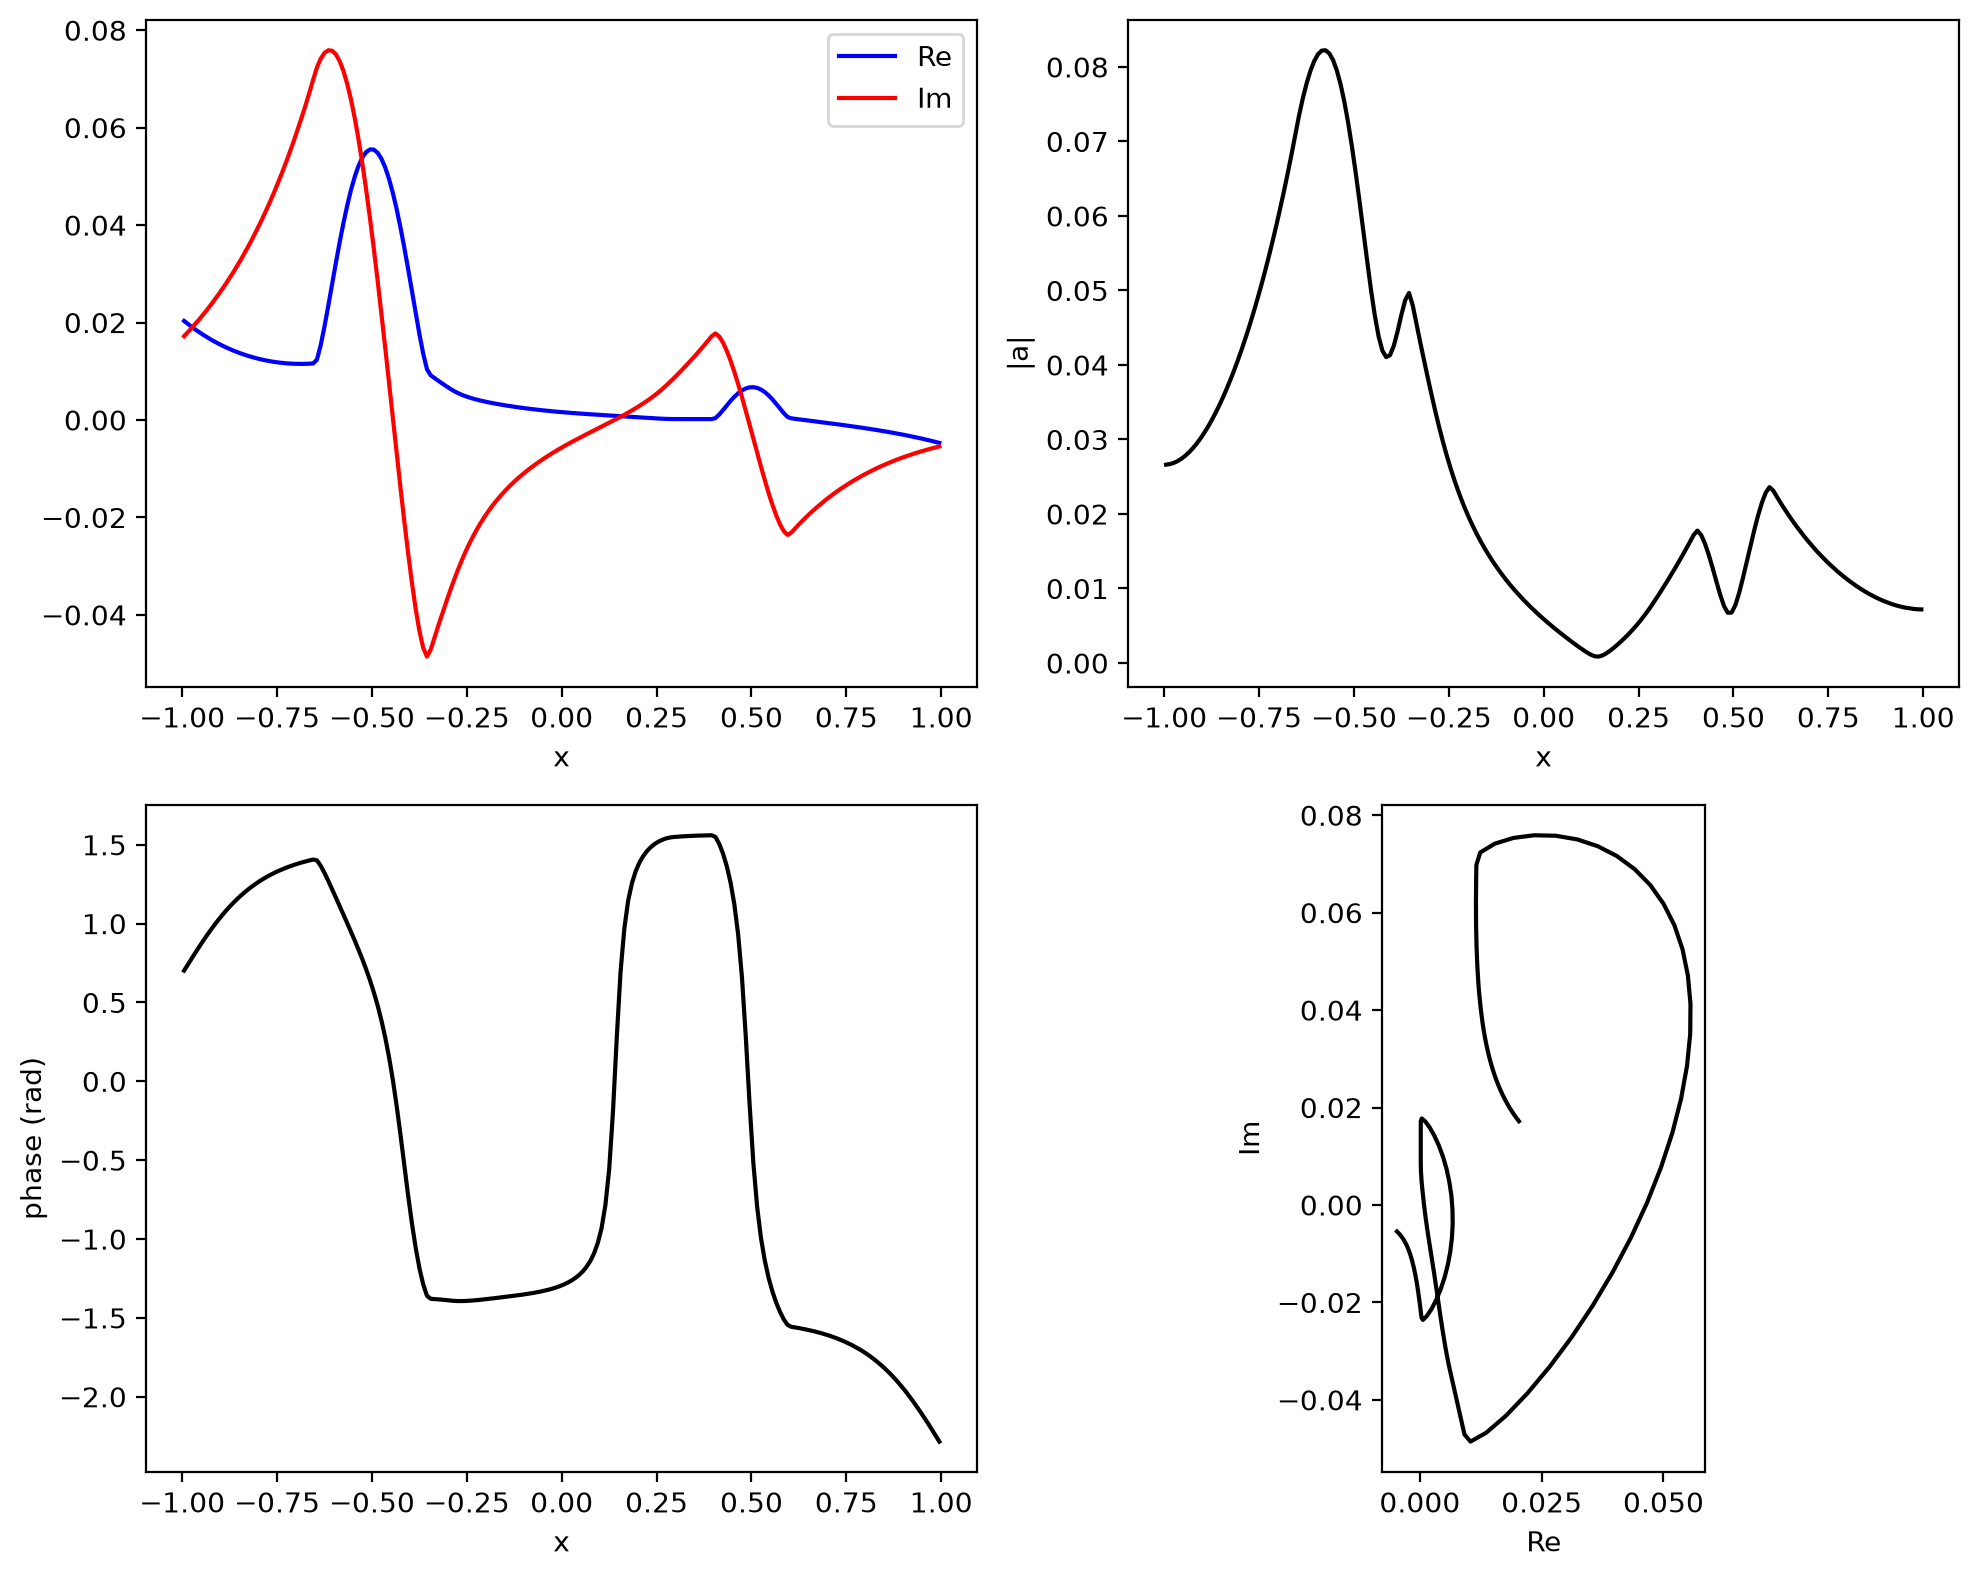
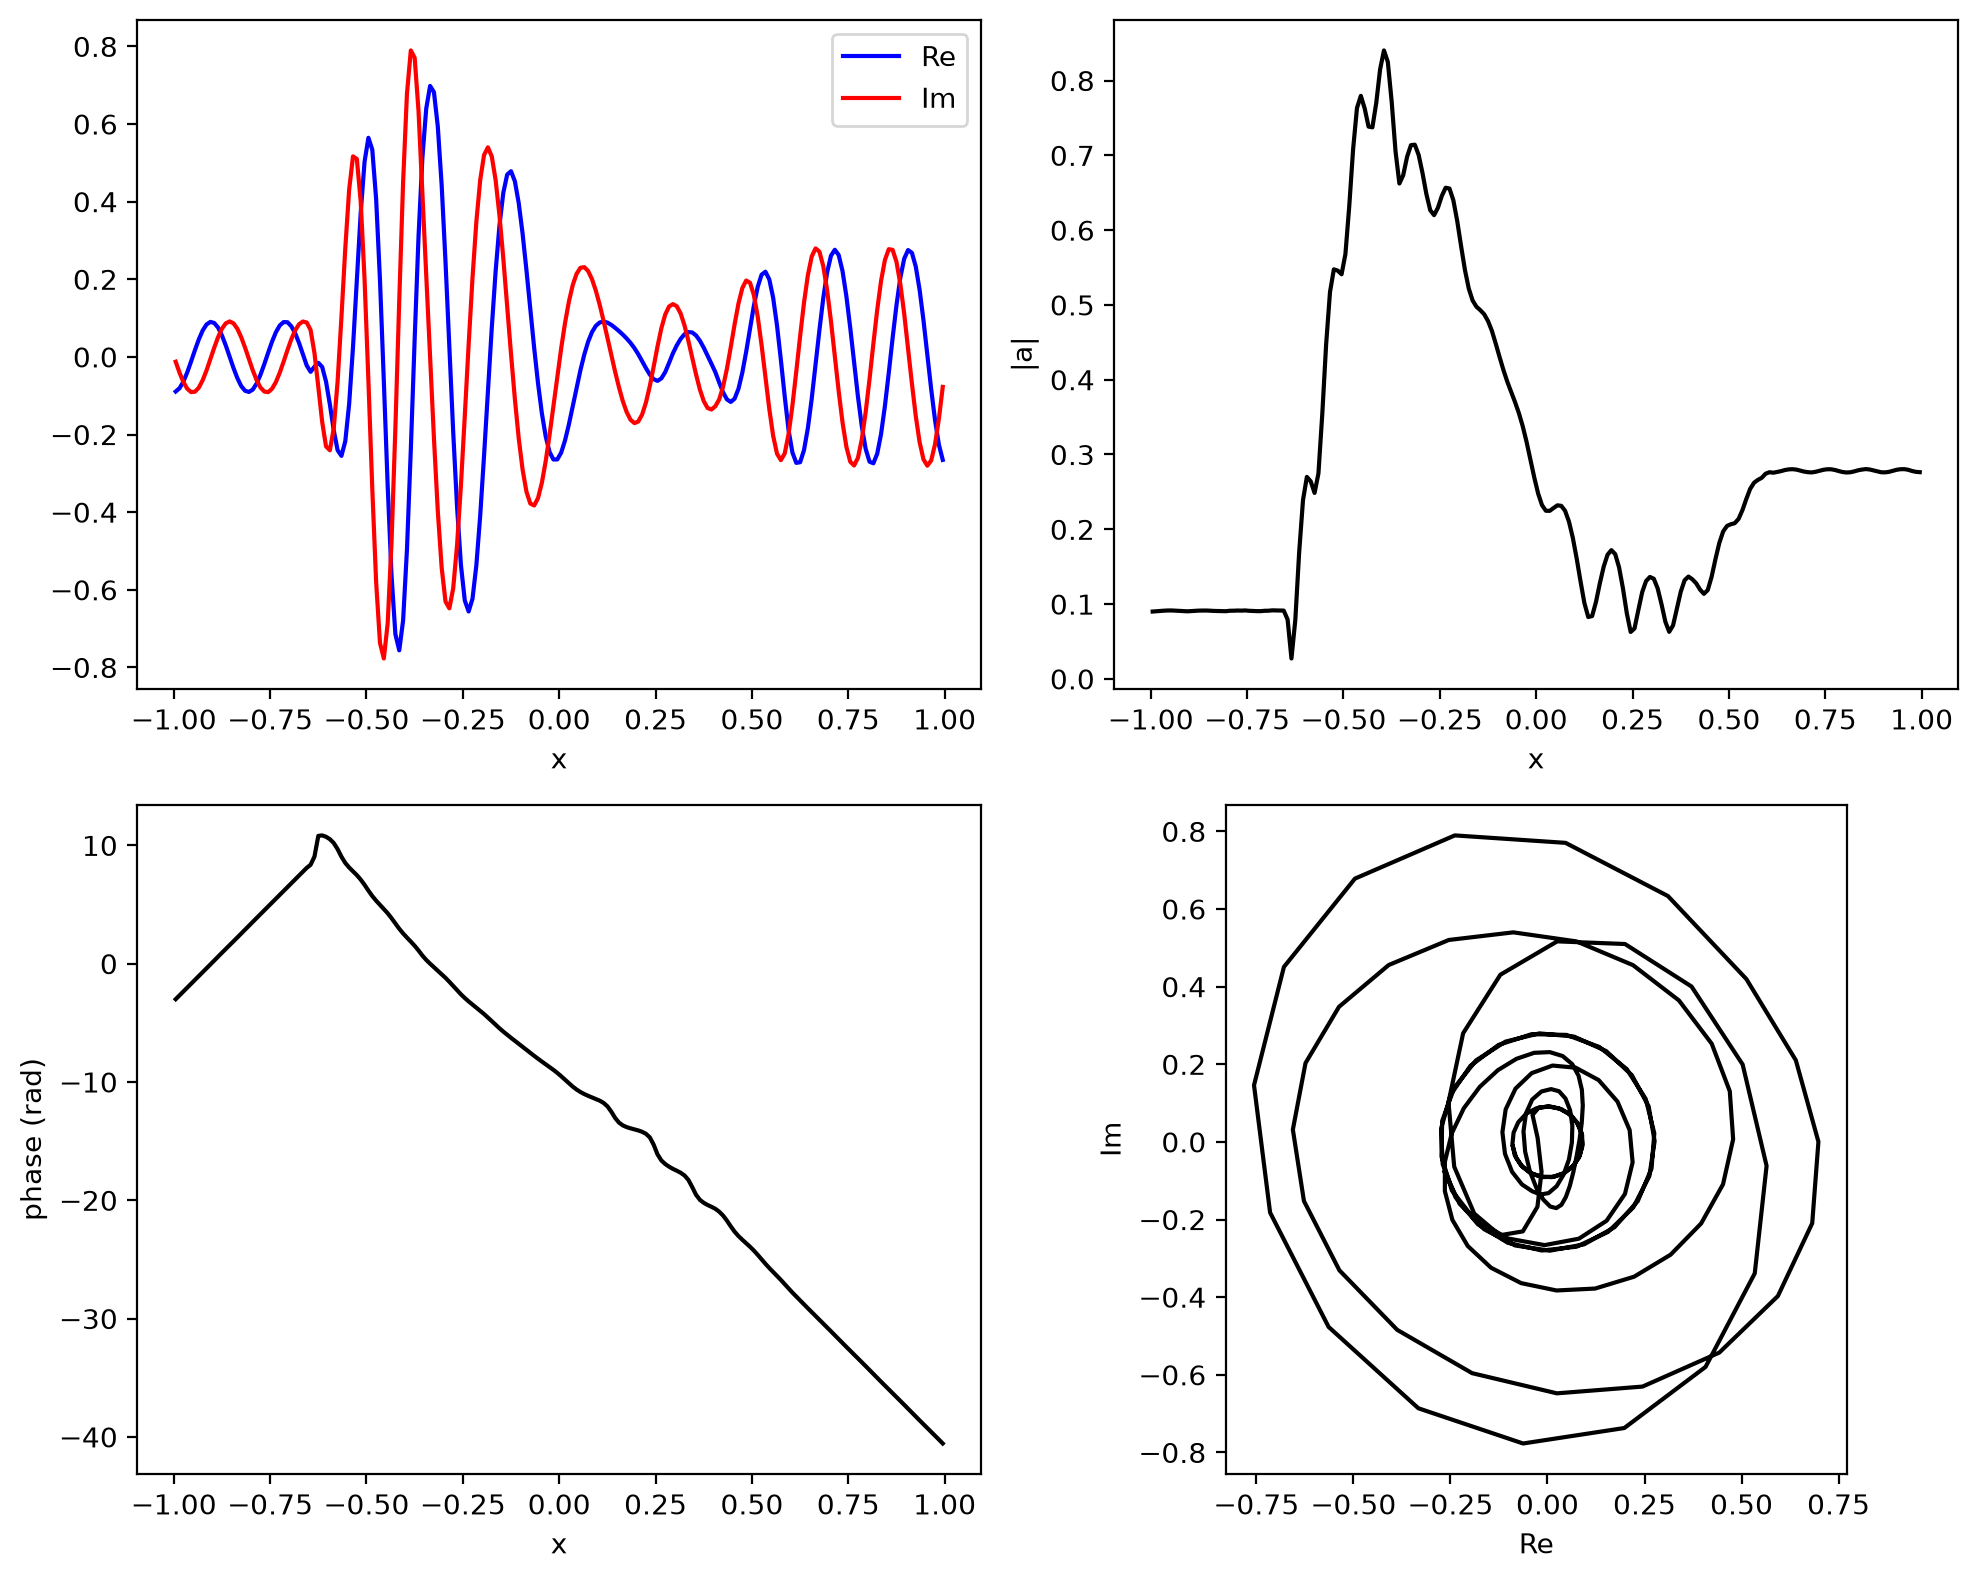
Updated post_processing.scriptfor power spectrum visualisation

diff --git a/src/post_processor.cc b/src/post_processor.cc
@@ -201,7 +201,6 @@ ModeCoefficients PostProcessor<dim>::transmission_reflection( const unsigned int
 
 
 
-
 /*-- Implementing main funcitons --*/ 
 
 template<int dim> 
@@ -254,27 +253,43 @@ ScatteringResults PostProcessor<dim>::scattering_results() const {
 }
 
 
+template<int dim> 
+std::vector<PowerSample> PostProcessor<dim>:: power_spectrum() const {
+	
+	const double k_0 = param.omega / param.c ; 
+	const double cut_off = numbers::PI / param.W ; 
+	const double ratio = k_0 / cut_off ; 
+	
+	AssertThrow(ratio > 1 , ExcMessage("The wave number is below the cut off"));
+
+	const unsigned int max_mode = static_cast<unsigned int>(std::ceil(ratio)) - 1; 	
+	
+	ModeCoefficients incoming_wave = PostProcessor<dim>::transmission_reflection(param.n); 
+	double incoming_power = incoming_wave.beta * std::norm(incoming_wave.A_left);
+	
+	std::vector<PowerSample> power_spec ; 
+	
+	
+	
+	for (unsigned int m = 1 ; m <= max_mode ; ++m) {
+		ModeCoefficients mode_decom = PostProcessor<dim>::transmission_reflection(m); 
+		double R_power = mode_decom.beta * std::norm(mode_decom.B_left) / incoming_power ; 
+		double T_power = mode_decom.beta * std::norm(mode_decom.A_right) / incoming_power ; 
+		double port_ref_in = ((mode_decom.mode == param.n)? 0.0 : 1.0) *  mode_decom.beta * std::norm(mode_decom.A_left) / incoming_power ; 
+		double port_ref_out = mode_decom.beta * std::norm(mode_decom.B_right) / incoming_power; 
+		power_spec.push_back({mode_decom.mode , mode_decom.beta , R_power , T_power , port_ref_in , port_ref_out}); 
+	
+	}
+	
+	return power_spec ; 
+	
+	
+
+}
 
 
 
-
-
-
-
-
-
-
-
-
-
-
-
-
-
-
-
-
-
+/*---------------------------------------- Pringting Function --------------------------------------------------*/
 
 // printintg intensity computatoin results 
 void write_intensity_csv(const std::vector<IntensitySample> &intensities , const std::string &output_file_name)  {
@@ -333,6 +348,24 @@ void write_scattering_results_csv (const ScatteringResults &res , const std::str
 	output.close();
 
 } 
+
+// printing power spectrum 
+
+void write_power_spectrum_csv(const std::vector<PowerSample> &power_spec, const std::string &output_file_name) {
+
+	std::ofstream output(output_file_name); 
+	AssertThrow(output.is_open() , ExcMessage("Cannot open" + output_file_name));
+	output << std::setprecision(16); 
+	
+	output << "mode , beta , R , T , port_ref_in , port_ref_out" << std::endl;
+	
+	for(unsigned int m = 0 ; m < power_spec.size() ; ++m) {
+		output<< power_spec[m].mode << "," << power_spec[m].beta << "," << power_spec[m].R << "," 
+		<< power_spec[m].T << "," << power_spec[m].port_ref_in << "," << power_spec[m].port_ref_out << std::endl;
+	}
+	output.close();	
+
+}
 
 
 

diff --git a/includes/post_processor.h b/includes/post_processor.h
@@ -41,13 +41,20 @@ struct Integration {
 };
 
 struct ModeCoefficients {
-	unsigned int mode ; 
-	double beta ; 
-	std::complex<double>  A_left ; 
-	std::complex<double>  B_left ;   
-	std::complex<double>  A_right ; 
+	unsigned int mode ; // mode number 1,2 ..
+	double beta ; // propagation constant
+	std::complex<double>  A_left ; //mode coefficients computed at the input 
+	std::complex<double>  B_left ;  
+	std::complex<double>  A_right ; // mode coefficients computed at the output 
 	std::complex<double>  B_right ;   
 };
+
+struct PowerSample {
+	unsigned int mode ; // mode number 
+	double beta ; // propagation constant 
+	double R, T ; // Reflection and transmission coeff 
+	double port_ref_in , port_ref_out ; // reflected power at the input and output due to a mismach between the port boundary conditiion and the mode
+}; 
 
 template<int dim> 
 class PostProcessor {
@@ -59,7 +66,7 @@ class PostProcessor {
 	        std::vector<IntensitySample> intensity_graph() const ; 
 	        std::vector<IntensitySample> intensity_point_list() const ;
 	       
-	        std::vector<ModeCoefficients> power_spectrum() const ;  
+	        std::vector<PowerSample> power_spectrum() const ;  
 	        
 	        ScatteringResults scattering_results()const ; 
 	        
@@ -78,6 +85,7 @@ class PostProcessor {
 	         
 	         ModeCoefficients transmission_reflection( const unsigned int mode) const ; //  helper function that computes the reflection and transmission coefficients for a given mode 
 	         
+	         
 };
 
 void get_integration_points_and_weights(const Parameters &p , Integration &inte);
@@ -85,7 +93,7 @@ void get_integration_points_and_weights(const Parameters &p , Integration &inte)
 void write_intensity_csv(const std::vector<IntensitySample> &intensitues , const std::string &output_file_name); 
 void write_amplitude_csv(const Parameters &p, const std::vector<AmplitudeSample> &amplitudes , const std::string &output_file_name); 
 void write_scattering_results_csv(const ScatteringResults &res , const std::string &output_file_name); 
-
+void write_power_spectrum_csv(const std::vector<PowerSample> &power_spec, const std::string &output_file_name);
 
 
 

diff --git a/src/wave_guide_problem.cc b/src/wave_guide_problem.cc
@@ -305,11 +305,14 @@ void WaveGuideProblem<dim>:: output_postprocessing_results() const {
 	
 	ScatteringResults res = post_processor.scattering_results(); 
 	
+	std::vector<PowerSample> power_spec= post_processor.power_spectrum();
+	
 	std::string point_amplitude_file = "point_amplitude.csv" ; 
 	std::string graph_amplitude_file ="graph_amplitude.csv" ; 
 	std::string point_intensity_file ="point_intensity.csv" ; 
 	std::string graph_intensity_file ="graph_intensity.csv" ; 
 	std::string scattering_results_file = "scattering_results.csv" ; 
+	std::string power_spectrum_file = "power_spectrum.csv" ; 
 	
 	write_intensity_csv(point_intensities , point_intensity_file);
 	write_intensity_csv(graph_intensities , graph_intensity_file);
@@ -318,6 +321,8 @@ void WaveGuideProblem<dim>:: output_postprocessing_results() const {
 	write_amplitude_csv(param, graph_amplitudes , graph_amplitude_file);
 	
 	write_scattering_results_csv(res , scattering_results_file);
+	
+	write_power_spectrum_csv(power_spec , power_spectrum_file) ;
 	
 	timer.stop(); 
 	std::cout<< "done (" << timer.cpu_time() << "s )" << std::endl; 

diff --git a/post_processing/post_processing.py b/post_processing/post_processing.py
@@ -58,3 +58,61 @@ plt.close(fig_2)
 
 
 
+## ploting power spectrum 
+
+df_ps = pd.read_csv("../builds/power_spectrum.csv") 
+print(df_ps.columns.tolist())
+
+modes = df_ps["mode "].values
+quantities = [" R ", " T ", " port_ref_in ", " port_ref_out"]
+labels = ["R", "T", "port reflection (in)", "port reflection (out)"]
+
+n = len(quantities)
+width = 0.15                       # thin bars, so they look like sticks
+offsets = (np.arange(n) - (n - 1) / 2) * width * 1.3
+xpos = np.arange(len(modes))       # one slot per mode
+
+fig, ax = plt.subplots(figsize=(8, 5))
+for k, (q, lab) in enumerate(zip(quantities, labels)):
+    ax.bar(xpos + offsets[k], df_ps[q].values, width=width, label=lab)
+
+ax.set_xticks(xpos)
+ax.set_xticklabels([str(int(m)) for m in modes])
+ax.set_xlabel("Mode m")
+ax.set_ylabel("Power fraction")
+ax.legend()
+fig.tight_layout()
+fig.savefig("power_spectrum.png", dpi=200)
+plt.close(fig)
+
+## compute balance  
+
+
+
+
+
+
+
+
+
+
+
+
+
+
+
+
+
+
+
+
+
+
+
+
+
+
+
+
+
+

diff --git a/includes/wave_guide_problem.h b/includes/wave_guide_problem.h
@@ -42,6 +42,7 @@
 #include "dirchlet_boundary_condition.h"
 #include "post_processor.h"
 
+
 using namespace dealii;
 
 template<int dim> 
